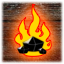
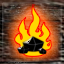
2005-09-24  Erik Hjortsberg  <erik@katastrof.nu>
*  src/components/ogre/widget/JesusEdit.*: disable overlays for the preview viewpoint instead of using a RenderListener, which was a inefficient way
	*  src/components/ogre/widget/IngameChatWidget.*: made some improvements to the widget, it now works with all kinds of entities, but won't show anything for the Avatar. Also made the graphical presentation a bit better.
	* ember.png: added jayr's updated image

diff --git a/src/components/ogre/widgets/IngameChatWidget.cpp b/src/components/ogre/widgets/IngameChatWidget.cpp
@@ -26,10 +26,11 @@
 #include "Widget.h"
 #include "../GUIManager.h"
 #include "../EmberEntity.h"
-#include "../EmberPhysicalEntity.h"
-#include "../model/Model.h"
+//#include "../EmberPhysicalEntity.h"
+//#include "../model/Model.h"
 
 #include <CEGUIWindowManager.h>
+#include <CEGUIExceptions.h>
 #include <elements/CEGUIListbox.h> 
 #include <elements/CEGUIListboxTextItem.h> 
 #include <elements/CEGUIStaticText.h> 
@@ -42,12 +43,13 @@
 #include "../Avatar.h"
 
 #include "../EmberEntity.h"
-#include "../EmberPhysicalEntity.h"
-#include "../PersonEmberEntity.h"
-#include "../AvatarEmberEntity.h"
+ #include "../EmberPhysicalEntity.h"
+ #include "../PersonEmberEntity.h"
+ #include "../AvatarEmberEntity.h"
 
 #include "services/EmberServices.h"
 #include "services/config/ConfigService.h"
+#include "services/server/ServerService.h"
 
 
 
@@ -95,31 +97,28 @@ void IngameChatWidget::buildWidget()
 void IngameChatWidget::appendIGChatLine(const std::string& line, EmberEntity* entity)
 {
 	//don't show anything if it's the avatar
-	//TODO: make this better
-	AvatarEmberEntity* avatarEntity = static_cast<AvatarEmberEntity*>(entity);
-	if (avatarEntity) {
+	AvatarEmberEntity* avatarEntity = EmberOgre::getSingleton().getAvatar()->getAvatarEmberEntity();
+	if (avatarEntity == entity) {
 		return;
 	}
 	
-	EmberPhysicalEntity* physicalEntity = static_cast<EmberPhysicalEntity*>(entity);
 
-	if (physicalEntity) {
-		CEGUI::Window* chatWindow;
-		ActiveChatWindowMap::iterator I = mActiveChatWindows.find(entity->getId());
-		if (I == mActiveChatWindows.end()) {
-			//there is no chat window for this entity, let's create one
-			chatWindow = CEGUI::WindowManager::getSingleton().loadWindowLayout((CEGUI::utf8*)"cegui/widgets/IngameChatWidget.xml", std::string("IngameChatWidget/") + entity->getId() + "/");
-			getMainSheet()->addChildWindow(chatWindow);
-			
-			ActiveChatWindow* activeWindow = new ActiveChatWindow(chatWindow, physicalEntity, mWindowManager);
-			
-			mActiveChatWindows[physicalEntity->getId()] = activeWindow;
-			
-			mActiveChatWindows[physicalEntity->getId()]->updateText(line);
-		} else {
-			I->second->updateText(line);
+	CEGUI::Window* chatWindow;
+	ActiveChatWindowMap::iterator I = mActiveChatWindows.find(entity->getId());
+	if (I == mActiveChatWindows.end()) {
+		//there is no chat window for this entity, let's create one
+		chatWindow = CEGUI::WindowManager::getSingleton().loadWindowLayout((CEGUI::utf8*)"cegui/widgets/IngameChatWidget.xml", std::string("IngameChatWidget/") + entity->getId() + "/");
+		getMainSheet()->addChildWindow(chatWindow);
+		
+		ActiveChatWindow* activeWindow = new ActiveChatWindow(chatWindow, entity, mWindowManager);
+		
+		mActiveChatWindows[entity->getId()] = activeWindow;
+		
+		mActiveChatWindows[entity->getId()]->updateText(line);
+	} else {
+		I->second->updateText(line);
 /*			chatWindow = I->second.window;*/
-		}
+	}
 		
 		//chatWindow->setAlpha(1.0f);
 		
@@ -128,7 +127,6 @@ void IngameChatWidget::appendIGChatLine(const std::string& line, EmberEntity* en
 		//chatWindow->moveToBack();
 		
 		
-	}
 
 }
 
@@ -147,7 +145,10 @@ void IngameChatWidget::frameStarted( const Ogre::FrameEvent & event )
 		ActiveChatWindow* window = I->second;
 		window->frameStarted(event );
 
-		Ogre::Vector3 entityWorldCoords = window->getEntity()->getModel()->getWorldBoundingBox(true).getCenter();
+	
+		Ogre::Vector3 entityWorldCoords = window->getEntity()->getWorldBoundingBox(true).getCenter();
+		
+		//Ogre::Vector3 entityWorldCoords = window->getEntity()->getSceneNode()->_getWorldAABB().getCenter();
 		Ogre::Vector3 cameraCoords = EmberOgre::getSingletonPtr()->getMainCamera()->getCamera()->getDerivedPosition();
 		Ogre::Vector3 diff = entityWorldCoords - cameraCoords;
 		
@@ -187,7 +188,7 @@ bool EmberOgre::IngameChatWidget::ActiveChatWindow::buttonResponse_Click(const C
 	const CEGUI::MouseEventArgs *mouseArgs = static_cast<const CEGUI::MouseEventArgs*>(&args);
 	if (mouseArgs) {
 		const CEGUI::String text = mouseArgs->window->getText();
-		EmberOgre::getSingleton().getAvatar()->getAvatarEmberEntity()->getErisAvatar()->say(std::string(text.c_str()) );
+		Ember::EmberServices::getInstance()->getServerService()->say(std::string(text.c_str()));
 	}
 //	removeMenu();
 	return true;
@@ -222,6 +223,11 @@ void EmberOgre::IngameChatWidget::ActiveChatWindow::updateText( const std::strin
 		int i = 0;
 		std::stringstream ss;
 		
+		float heightSize = 1.0f;
+		if (responses.size() > 0) {
+			heightSize = 1.0f / responses.size();
+		}
+		
 		for (;I != I_end; ++I)
 		{
 			std::stringstream ss_;
@@ -232,8 +238,8 @@ void EmberOgre::IngameChatWidget::ActiveChatWindow::updateText( const std::strin
 			
 			BIND_CEGUI_EVENT(responseText, CEGUI::ButtonBase::EventMouseButtonUp,IngameChatWidget::ActiveChatWindow::buttonResponse_Click );
 			responseText->setText(*I);
-			responseText->setSize(CEGUI::Size(1.0f, 0.3f));
-			responseText->setPosition(CEGUI::Point(0.0f, i * 0.3f));
+			responseText->setSize(CEGUI::Size(1.0f, heightSize));
+			responseText->setPosition(CEGUI::Point(0.0f, i * heightSize));
 			responseText->setInheritsAlpha(true);	
 			responseText->setHorizontalFormatting(CEGUI::StaticText::WordWrapLeftAligned);
 			responseText->setFrameEnabled(false);
@@ -250,9 +256,17 @@ void EmberOgre::IngameChatWidget::ActiveChatWindow::updateText( const std::strin
 
 }
 
-EmberOgre::IngameChatWidget::ActiveChatWindow::ActiveChatWindow( CEGUI::Window * window, EmberPhysicalEntity * entity, CEGUI::WindowManager * windowManager )
+EmberOgre::IngameChatWidget::ActiveChatWindow::ActiveChatWindow( CEGUI::Window * window, EmberEntity * entity, CEGUI::WindowManager * windowManager )
  : mWindow(window), mEntity(entity), mWindowManager(windowManager), mElapsedTimeSinceLastUpdate(0.0f)
 {
+	try {
+		CEGUI::Window* nameWidget = static_cast<CEGUI::Window*>(mWindow->getChild(std::string("IngameChatWidget/") + mEntity->getId() + "/" + "EntityName"));
+		nameWidget->setText(entity->getName());
+	} catch (CEGUI::Exception& ex) {
+		S_LOG_FAILURE("Could not get widget EntityName. Exception: " << ex.getMessage().c_str());
+	}
+	
+	
 	placeWindowOnEntity();
 }
 
@@ -266,16 +280,16 @@ void EmberOgre::IngameChatWidget::ActiveChatWindow::placeWindowOnEntity()
 {
 	//make sure that the window stays on the entity
 	Ogre::Vector3 screenCoords;
-/*	Ogre::Vector3 entityWorldCoords = entity->getSceneNode()->_getWorldAABB().getCenter();
 	
-	Ogre::Vector3 entityWorldCoords = entity->getSceneNode()->getWorldPosition();*/
-//	entity->_update();
-	Ogre::Vector3 entityWorldCoords = mEntity->getModel()->getWorldBoundingBox(true).getCenter();
+	bool result = false;
+	Ogre::Vector3 entityWorldCoords = getEntity()->getWorldBoundingBox(true).getCenter();
+	entityWorldCoords.y = getEntity()->getWorldBoundingBox(true).getMaximum().y;
 	//check what the new position is in screen coords
-	bool result = EmberOgre::getSingletonPtr()->getMainCamera()->worldToScreen(entityWorldCoords, screenCoords);
+	result = EmberOgre::getSingletonPtr()->getMainCamera()->worldToScreen(entityWorldCoords, screenCoords);
+	
 	if (result) {
 		mWindow->setVisible(true);
-		mWindow->setPosition(CEGUI::Point(screenCoords.x - (mWindow->getWidth() * 0.5), screenCoords.y - (mWindow->getHeight() * 0.5)));
+		mWindow->setPosition(CEGUI::Point(screenCoords.x - (mWindow->getWidth() * 0.5), screenCoords.y  - (mWindow->getHeight() * 0.5)));
 	} else {
 		mWindow->setVisible(false);
 	}
@@ -289,7 +303,7 @@ void EmberOgre::IngameChatWidget::ActiveChatWindow::frameStarted( const Ogre::Fr
 
 }
 
-EmberOgre::EmberPhysicalEntity * EmberOgre::IngameChatWidget::ActiveChatWindow::getEntity( )
+EmberOgre::EmberEntity * EmberOgre::IngameChatWidget::ActiveChatWindow::getEntity( )
 {
 	return mEntity;
 }

diff --git a/src/components/ogre/widgets/JesusEdit.cpp b/src/components/ogre/widgets/JesusEdit.cpp
@@ -648,13 +648,10 @@ void JesusEditPreview::createPreviewTexture()
 	mRenderTexture->removeAllViewports();
 	mRenderTexture->setActive(false);
 	
-	//add a listener, because we want to hide some things when rendering this
-	//for instance, we don't want to render the CEGUI
-	mListener = new JesusEditPreviewRenderListener(mGuiManager);
-	mRenderTexture->addListener(mListener);
 	//make sure the camera renders into this new texture
 	Ogre::Viewport *v = mRenderTexture->addViewport(mCamera );
-
+	//don't show the CEGUI
+	v->setOverlaysEnabled(false);
 	//the cegui renderer wants a TexturePtr (not a RenderTexturePtr), so we just ask the texturemanager for texture we just created (rttex)
 	Ogre::TexturePtr texPtr = Ogre::TextureManager::getSingleton().getByName(mRenderTexture->getName());
 	
@@ -677,20 +674,6 @@ void JesusEditPreview::createPreviewTexture()
 
 }
 
-void JesusEditPreviewRenderListener::preRenderTargetUpdate(const Ogre::RenderTargetEvent& evt)
-{
-	//hide the gui and the cursor
-	mGuiManager->getMainSheet()->setVisible(false);
-	CEGUI::MouseCursor::getSingleton().hide();
-
-}
-void JesusEditPreviewRenderListener::postRenderTargetUpdate(const Ogre::RenderTargetEvent& evt)
-{
-	//show the gui and the cursor again
-	mGuiManager->getMainSheet()->setVisible(true);
-	CEGUI::MouseCursor::getSingleton().show();
-
-}
 
 JesusEditFile::JesusEditFile(GUIManager* guiManager, JesusEdit* jesusEdit, Jesus* jesus) : mJesusEdit(jesusEdit), mJesus(jesus)
 {

diff --git a/src/components/ogre/widgets/IngameChatWidget.h b/src/components/ogre/widgets/IngameChatWidget.h
@@ -50,7 +50,7 @@ class IngameChatWidget : public Widget {
 			/**
 			
 			*/
-			ActiveChatWindow(CEGUI::Window* window, EmberPhysicalEntity* entity, CEGUI::WindowManager* windowManager);
+			ActiveChatWindow(CEGUI::Window* window, EmberEntity* entity, CEGUI::WindowManager* windowManager);
 			
 			~ActiveChatWindow();
 
@@ -70,7 +70,7 @@ class IngameChatWidget : public Widget {
 			
 			gets the entity the window belongs to
 			*/
-			EmberPhysicalEntity* getEntity();
+			EmberEntity* getEntity();
 			
 			CEGUI::Window* getWindow();
 			
@@ -88,7 +88,7 @@ class IngameChatWidget : public Widget {
 			
 			CEGUI::Window* mWindow;
 			float mElapsedTimeSinceLastUpdate;
-			EmberPhysicalEntity* mEntity;
+			EmberEntity* mEntity;
 			std::vector<CEGUI::Window*> mResponseTextWidgets;
 			CEGUI::WindowManager* mWindowManager;
 			

diff --git a/src/components/ogre/widgets/JesusEdit.h b/src/components/ogre/widgets/JesusEdit.h
@@ -68,21 +68,6 @@ class JesusEdit;
 @author Erik Hjortsberg
 */
 
-class JesusEditPreviewRenderListener : public Ogre::RenderTargetListener
-{
-protected:
-	GUIManager* mGuiManager;
-
-public:
-
-	JesusEditPreviewRenderListener(GUIManager* guiManager) : mGuiManager(guiManager) {}
-
-    void preRenderTargetUpdate(const Ogre::RenderTargetEvent& evt);
-
-    void postRenderTargetUpdate(const Ogre::RenderTargetEvent& evt);
-	
-
-};
 
 class JesusEditPreview
 {
@@ -124,7 +109,6 @@ protected:
 	Ogre::SceneNode* mEntityNode;
 	Ogre::Camera* mCamera;
 	//Model* mModel;
-	JesusEditPreviewRenderListener* mListener;
 	Carpenter::BluePrint* mBlueprint;
 	
 	Carpenter::BuildingBlock* mBlock;
